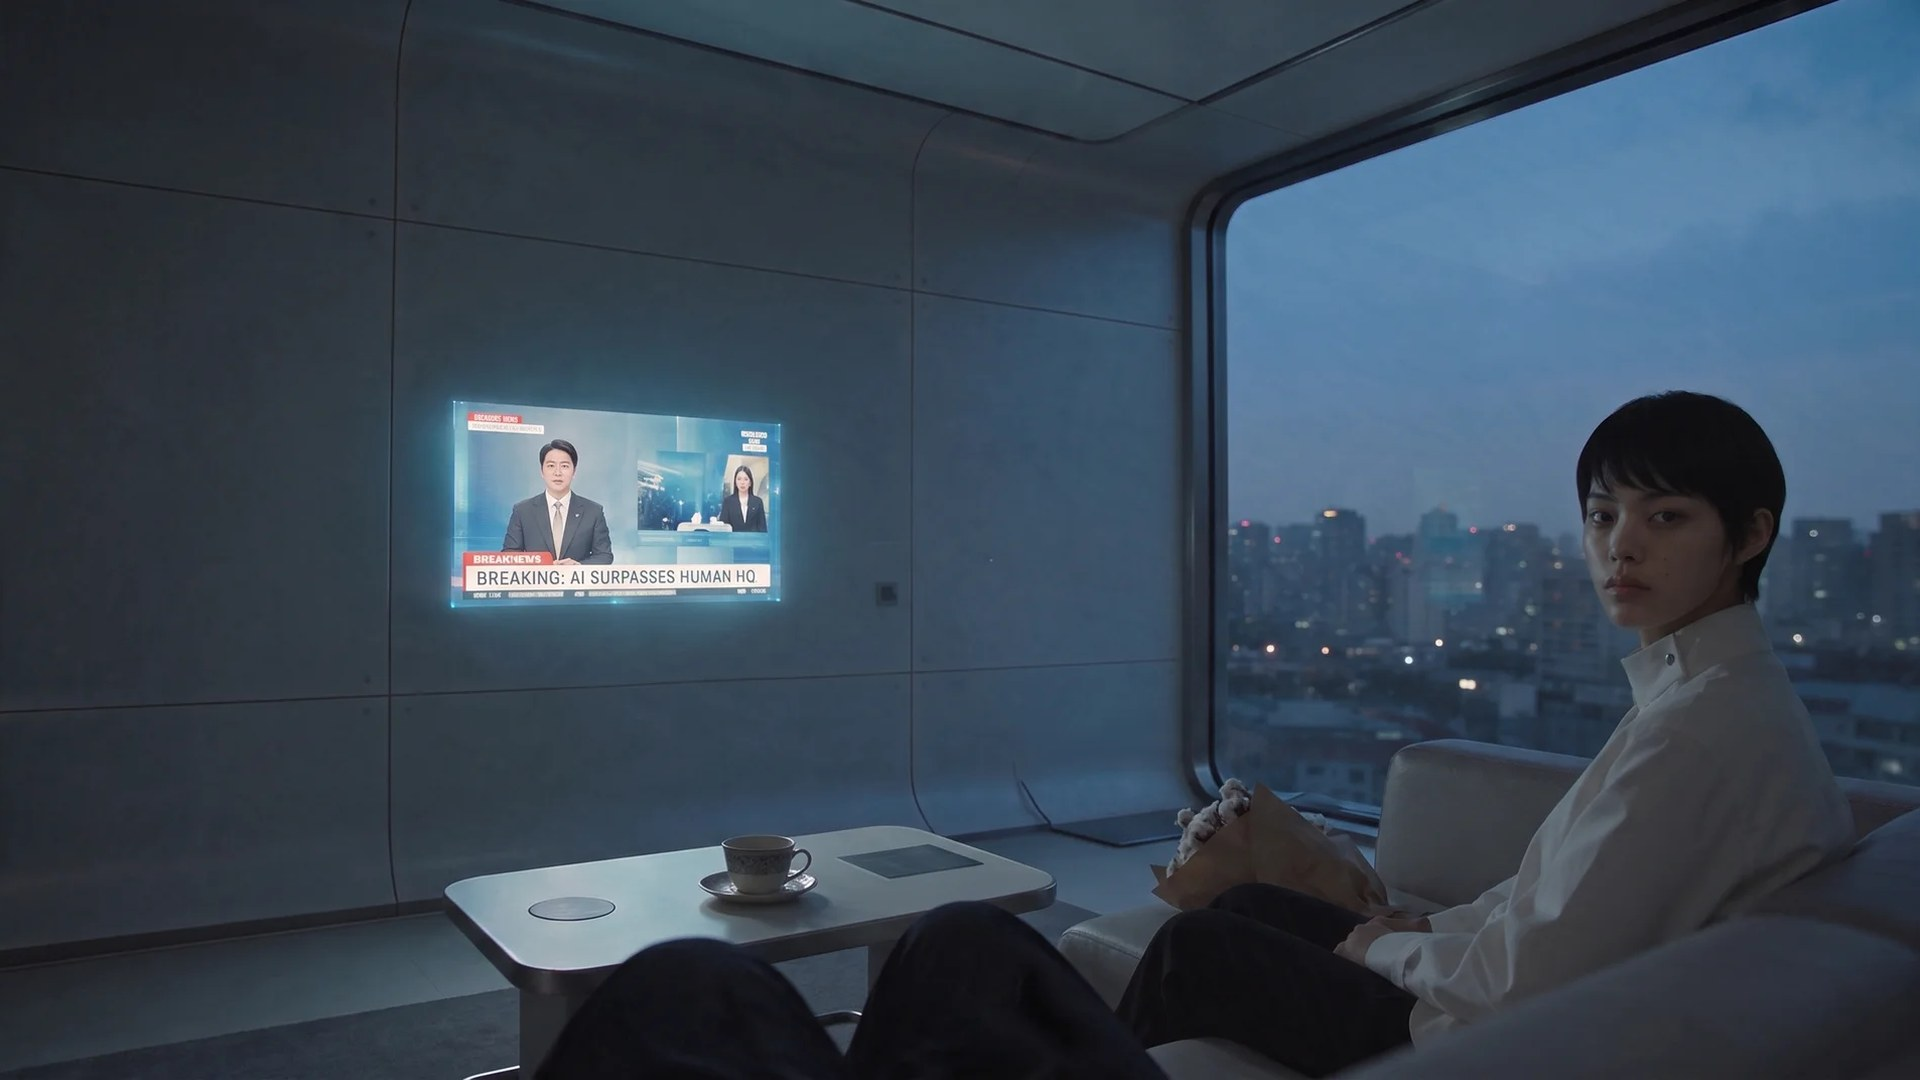
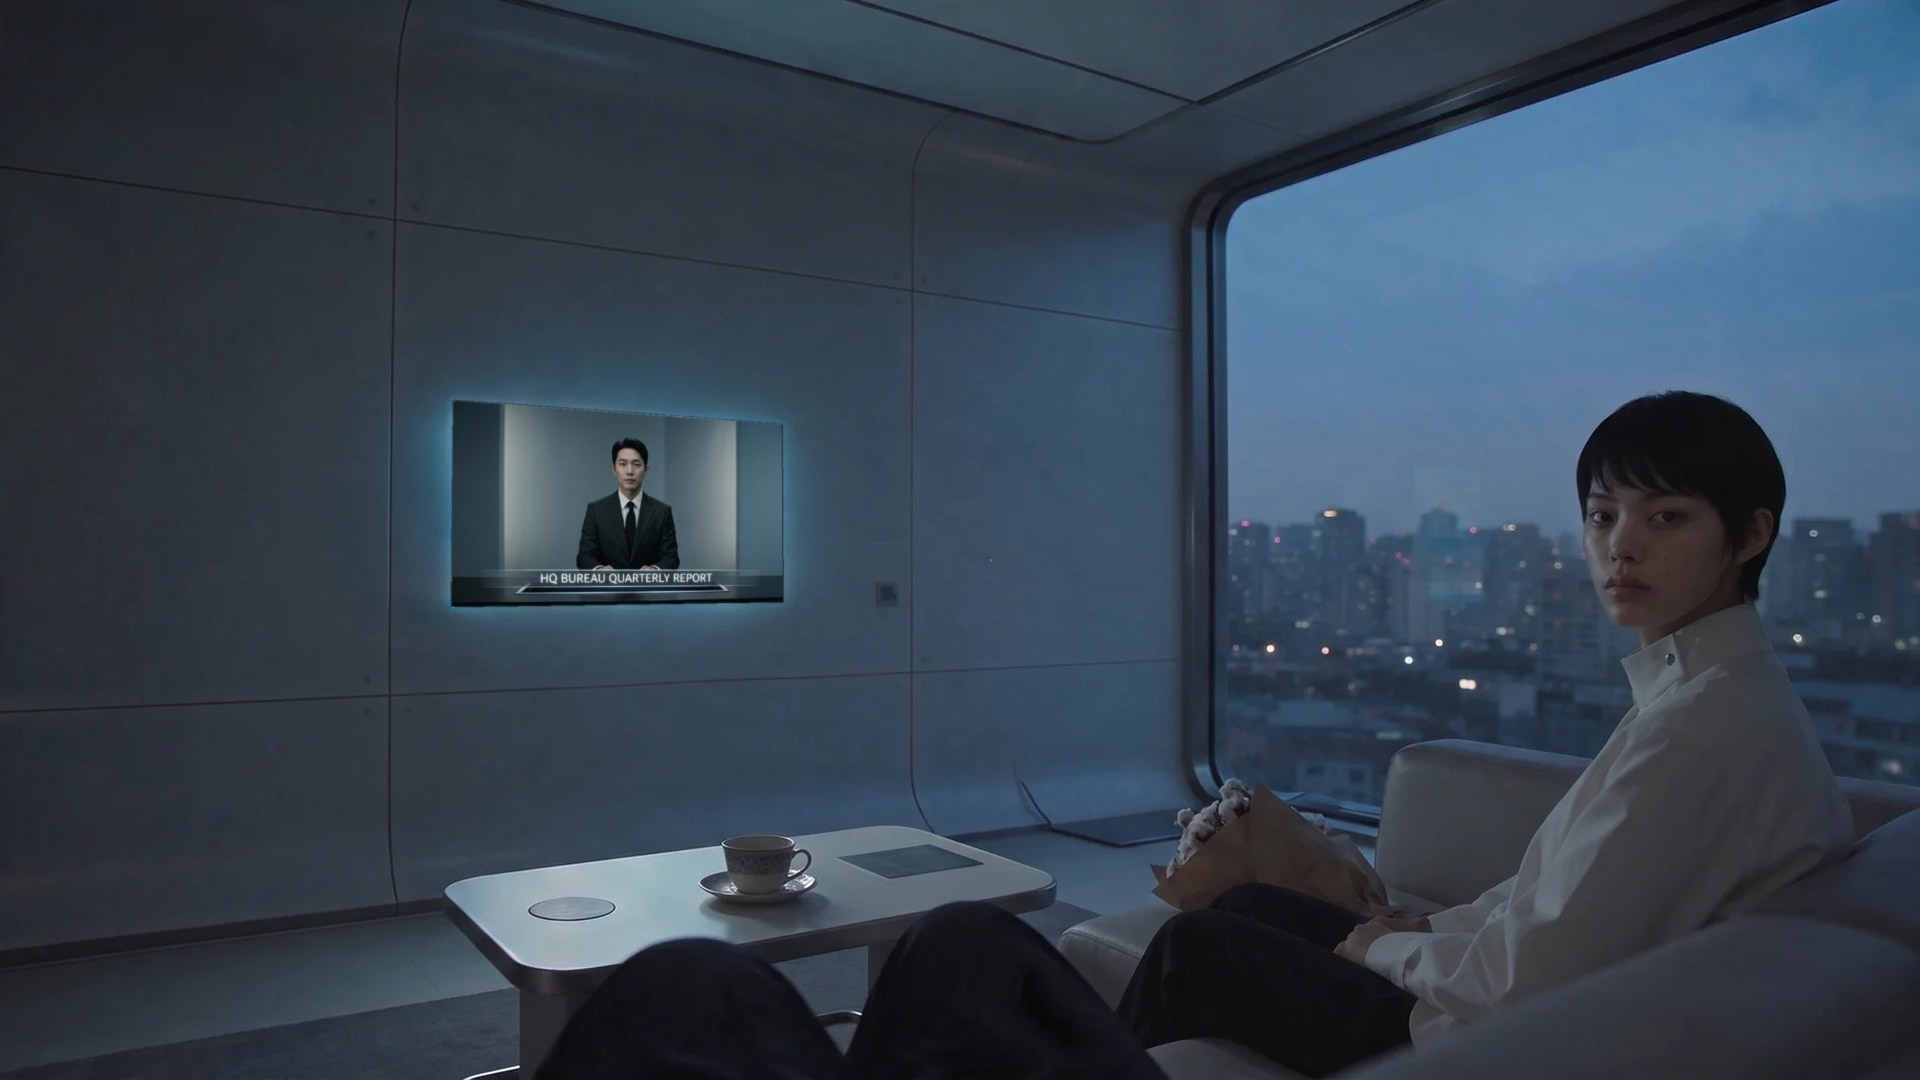
뉴스 화면 교체: 힉스필드로 만든 한국인 앵커 뉴스(HQ BUREAU QUARTERLY REPORT)를 거실 컷 3장의 텔레비전에 원근 맞춰 합성하고, 뉴스 대사 장면은 스케치 대신 같은 화면을 전체로 보여 줌
Claude-Session: https://claude.ai/code/session_017BBqqq5PGAqddBwZhWXudk

Changed region(s): [[0.2188, 0.3667, 0.4062, 0.5806]]

diff --git a/prototype/src/story.js b/prototype/src/story.js
@@ -88,7 +88,7 @@ const raw = [
 
   // 당신의 집 · 크로스오버의 밤
   N('2069년 3월 14일 밤.', 'The night of March 14, 2069.', { img: 'p-home', bgm: 'night', amb: 'street' }),
-  L('뉴스', '“속보입니다. HQ관리국이 발표한 이번 분기 평균 HQ 점수에서 AI가 처음으로 인간을 넘어섰습니다. 판별 시스템이 인간보다 AI를 더 높은 인간 점수로 평가한 것은 이번이 처음인데요. 인간과 AI의 경계에 또 한 번 큰 파장이 예상됩니다.”', '“Breaking news. According to the HQ Bureau’s latest quarterly report, AI has surpassed humans in average HQ scores for the first time. This marks the first time the identification system has rated AI as more human than humans themselves. The news is expected to send shockwaves through society, once again blurring the line between humans and AI.”', { img: 'p-news-sketch', sfx: 'news' }),
+  L('뉴스', '“속보입니다. HQ관리국이 발표한 이번 분기 평균 HQ 점수에서 AI가 처음으로 인간을 넘어섰습니다. 판별 시스템이 인간보다 AI를 더 높은 인간 점수로 평가한 것은 이번이 처음인데요. 인간과 AI의 경계에 또 한 번 큰 파장이 예상됩니다.”', '“Breaking news. According to the HQ Bureau’s latest quarterly report, AI has surpassed humans in average HQ scores for the first time. This marks the first time the identification system has rated AI as more human than humans themselves. The news is expected to send shockwaves through society, once again blurring the line between humans and AI.”', { img: 'p-news', sfx: 'news' }),
   N('{name:은} 소파에 앉아 뉴스를 보고 있다. 그때, 휴대폰이 울린다.', '{name} is watching the news on the sofa. Then the phone rings.', { img: 'p-home', vib: true }),
   // 클로이의 전화. 휴대폰이 진동하고, 플레이어가 초록 버튼을 밀어서(또는 Space·Enter·→) 받는다.
   { type: 'call', img: 'p-call-bg', vib: true },
